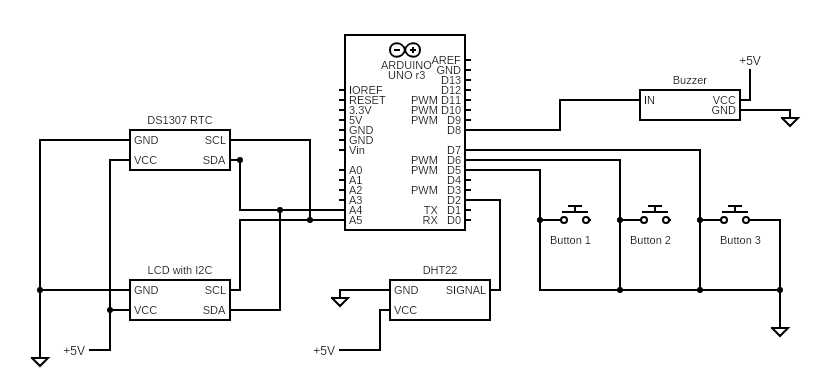
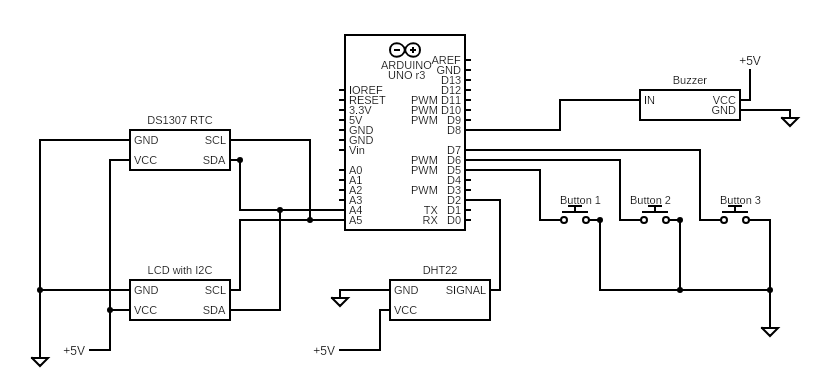
fix wrong circuit diagram

diff --git a/README.md b/README.md
@@ -20,7 +20,7 @@ _Arduino clock with alarm, temperature & humidity_
 
 <br>
 
-![circuit](https://user-images.githubusercontent.com/39665412/72229989-91ed7100-35ed-11ea-9246-1fcbcc2185cb.png)
+![circuit](https://user-images.githubusercontent.com/39665412/72237113-5c0fb300-3614-11ea-8a6a-758b501fbf7a.png)
 
 ## Usage Instructions
 
